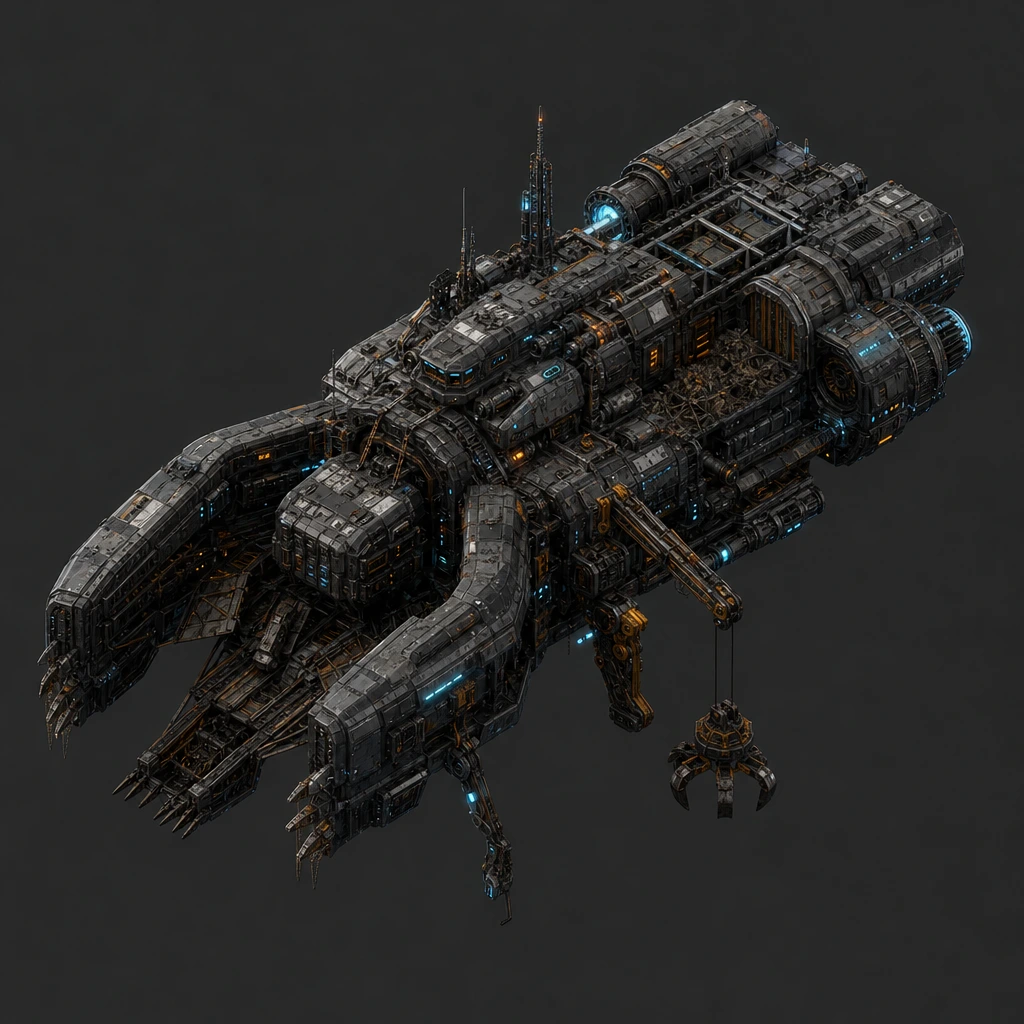
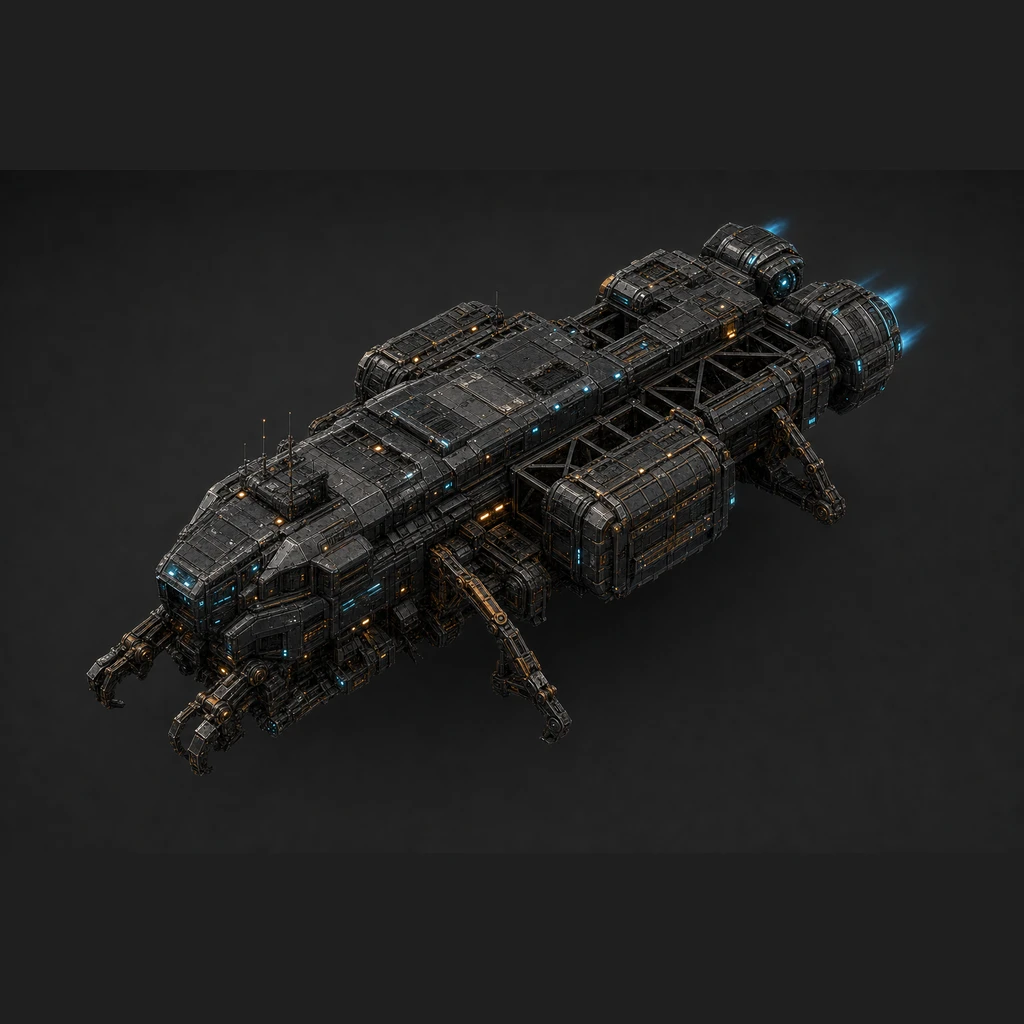
Add approved crawler ship asset
Replace crawler ship thumbnail with the approved generated asset and mark it production in frontend asset metadata.

Changed region(s): [[0.0312, 0.0938, 0.9688, 0.875]]

diff --git a/apps/frontend/src/gameAssets.ts b/apps/frontend/src/gameAssets.ts
@@ -69,7 +69,7 @@ export const shipAssetManifest = [
   { key: "battlecruiser", src: `${SHIP_BASE}/battlecruiser.webp`, category: "ship", status: "production" },
   { key: "reaper", src: `${SHIP_BASE}/reaper.webp`, category: "ship", status: "production" },
   { key: "pathfinder", src: `${SHIP_BASE}/pathfinder.webp`, category: "ship", status: "production" },
-  { key: "crawler", src: `${SHIP_BASE}/crawler.webp`, category: "ship", status: "generated-preview" },
+  { key: "crawler", src: `${SHIP_BASE}/crawler.webp`, category: "ship", status: "production" },
 ] as const satisfies readonly GameAssetMapping<ShipKey>[];
 
 export const researchAssetManifest = [
